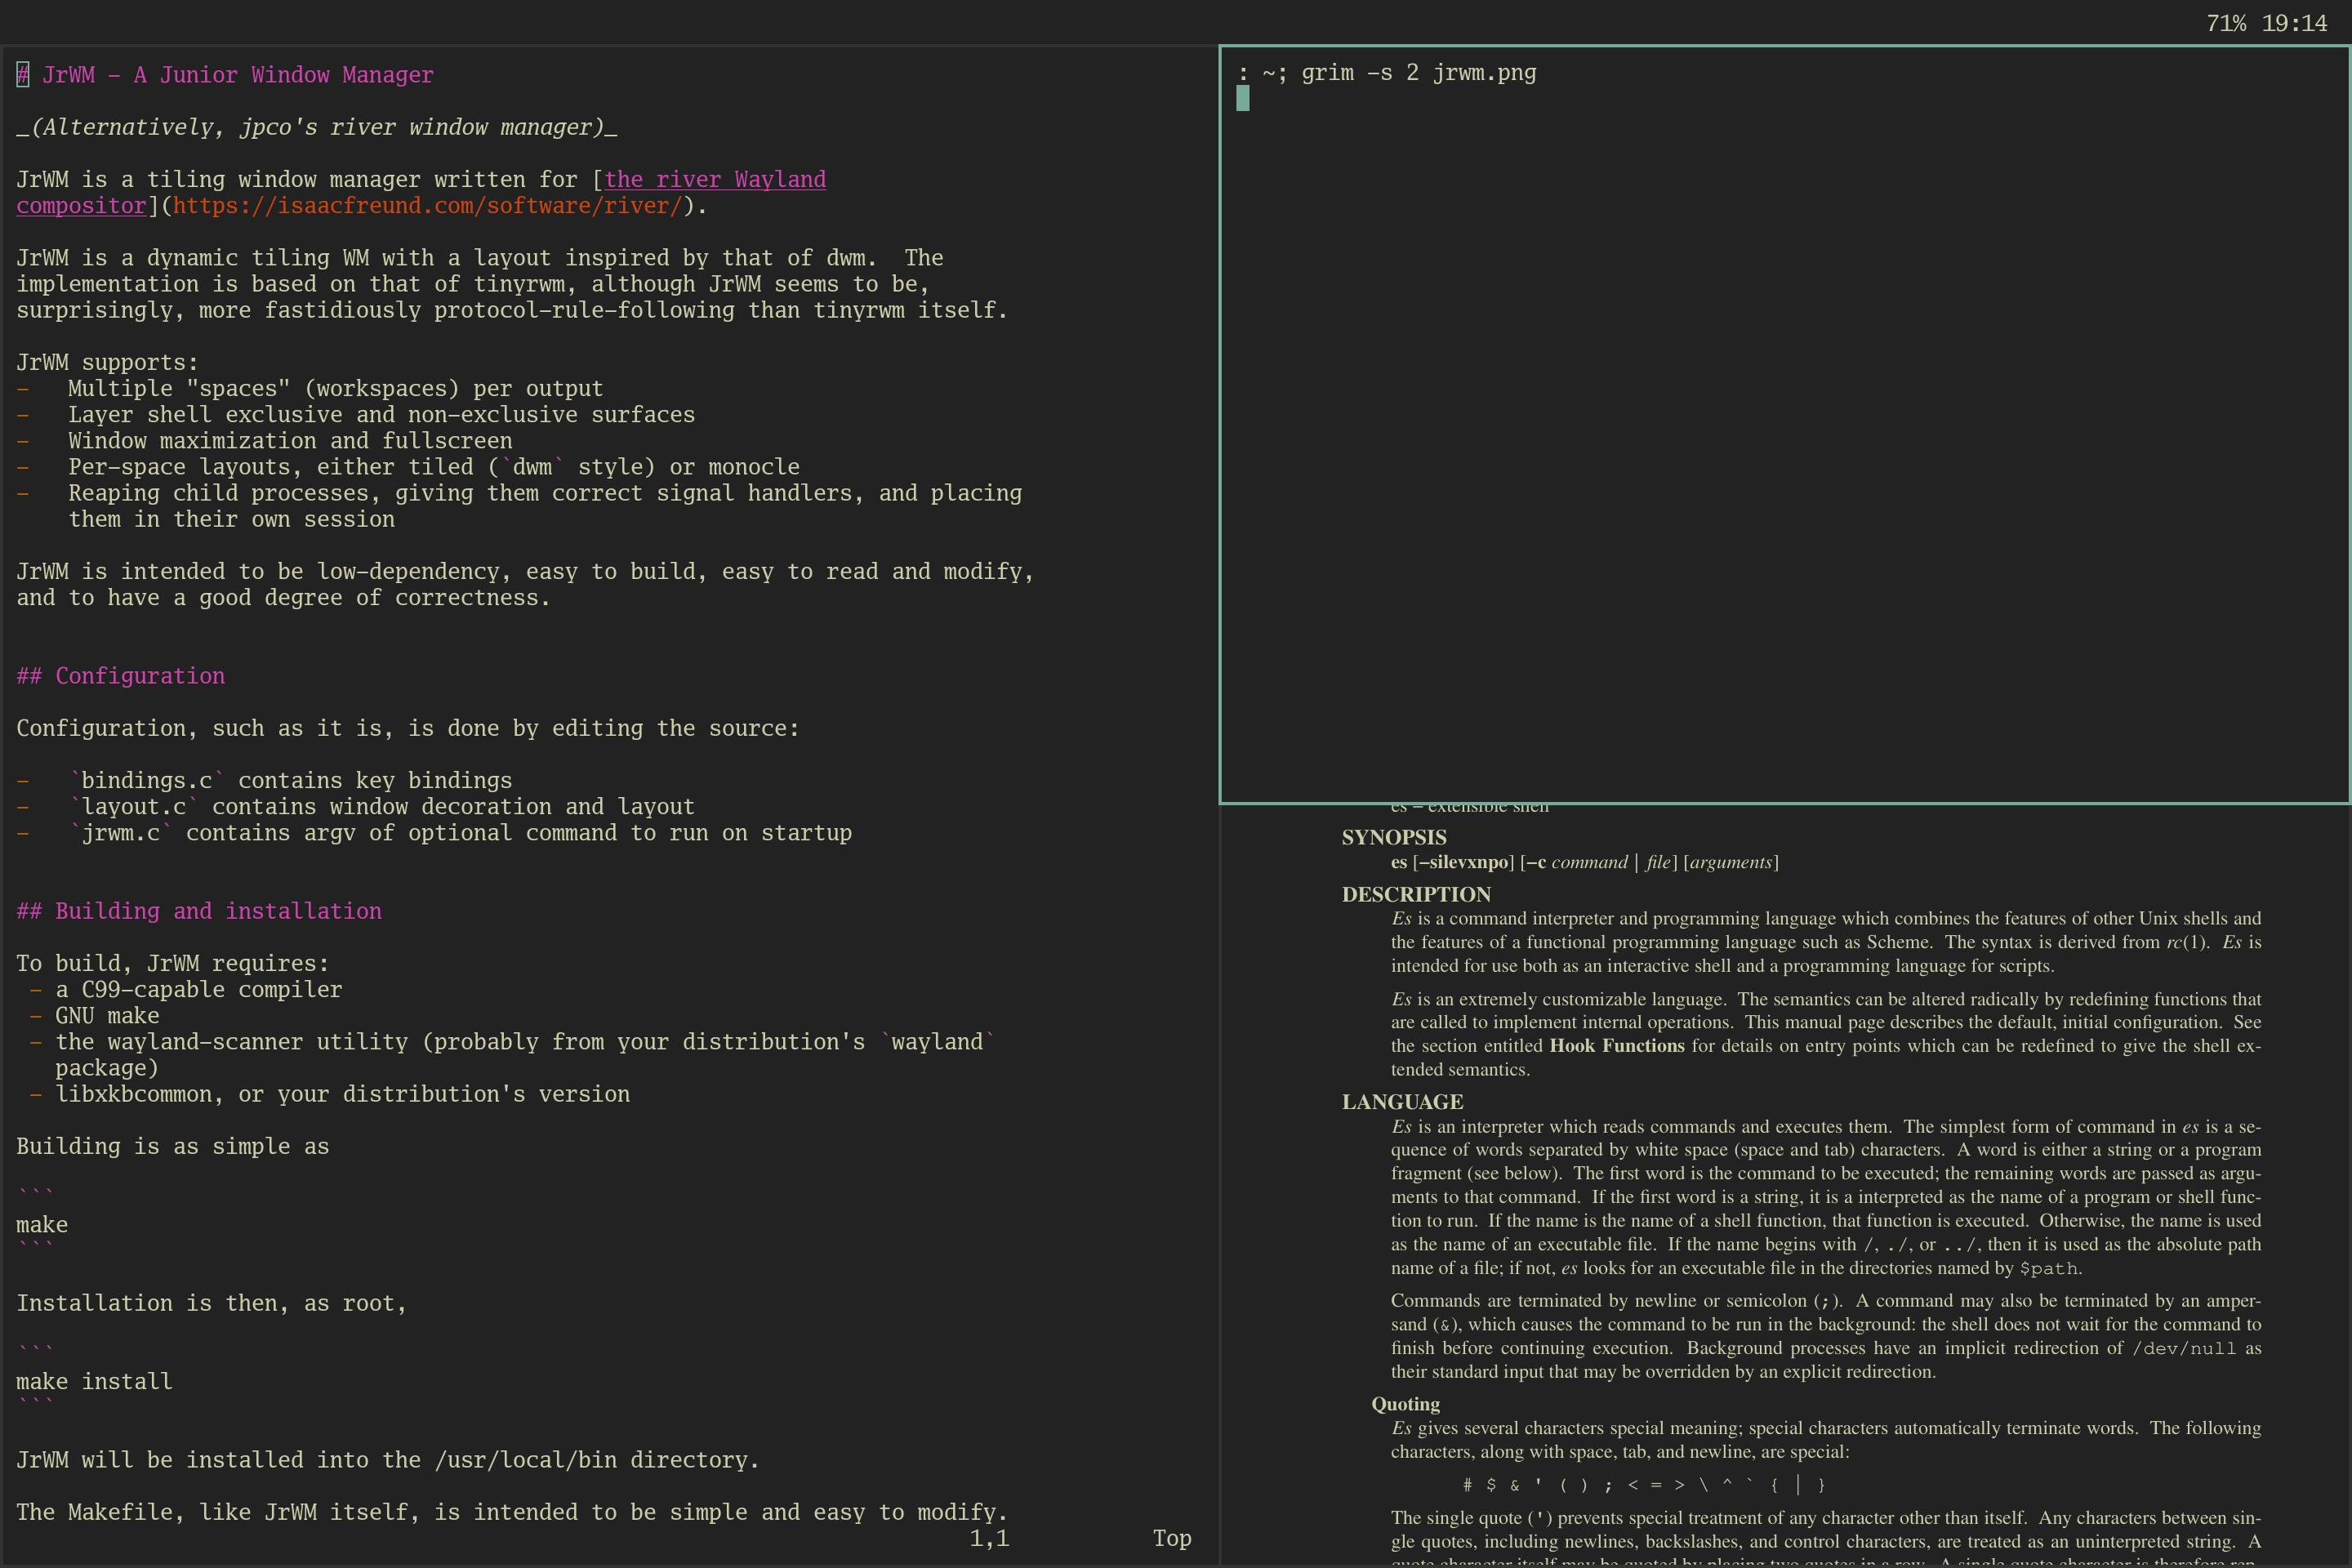
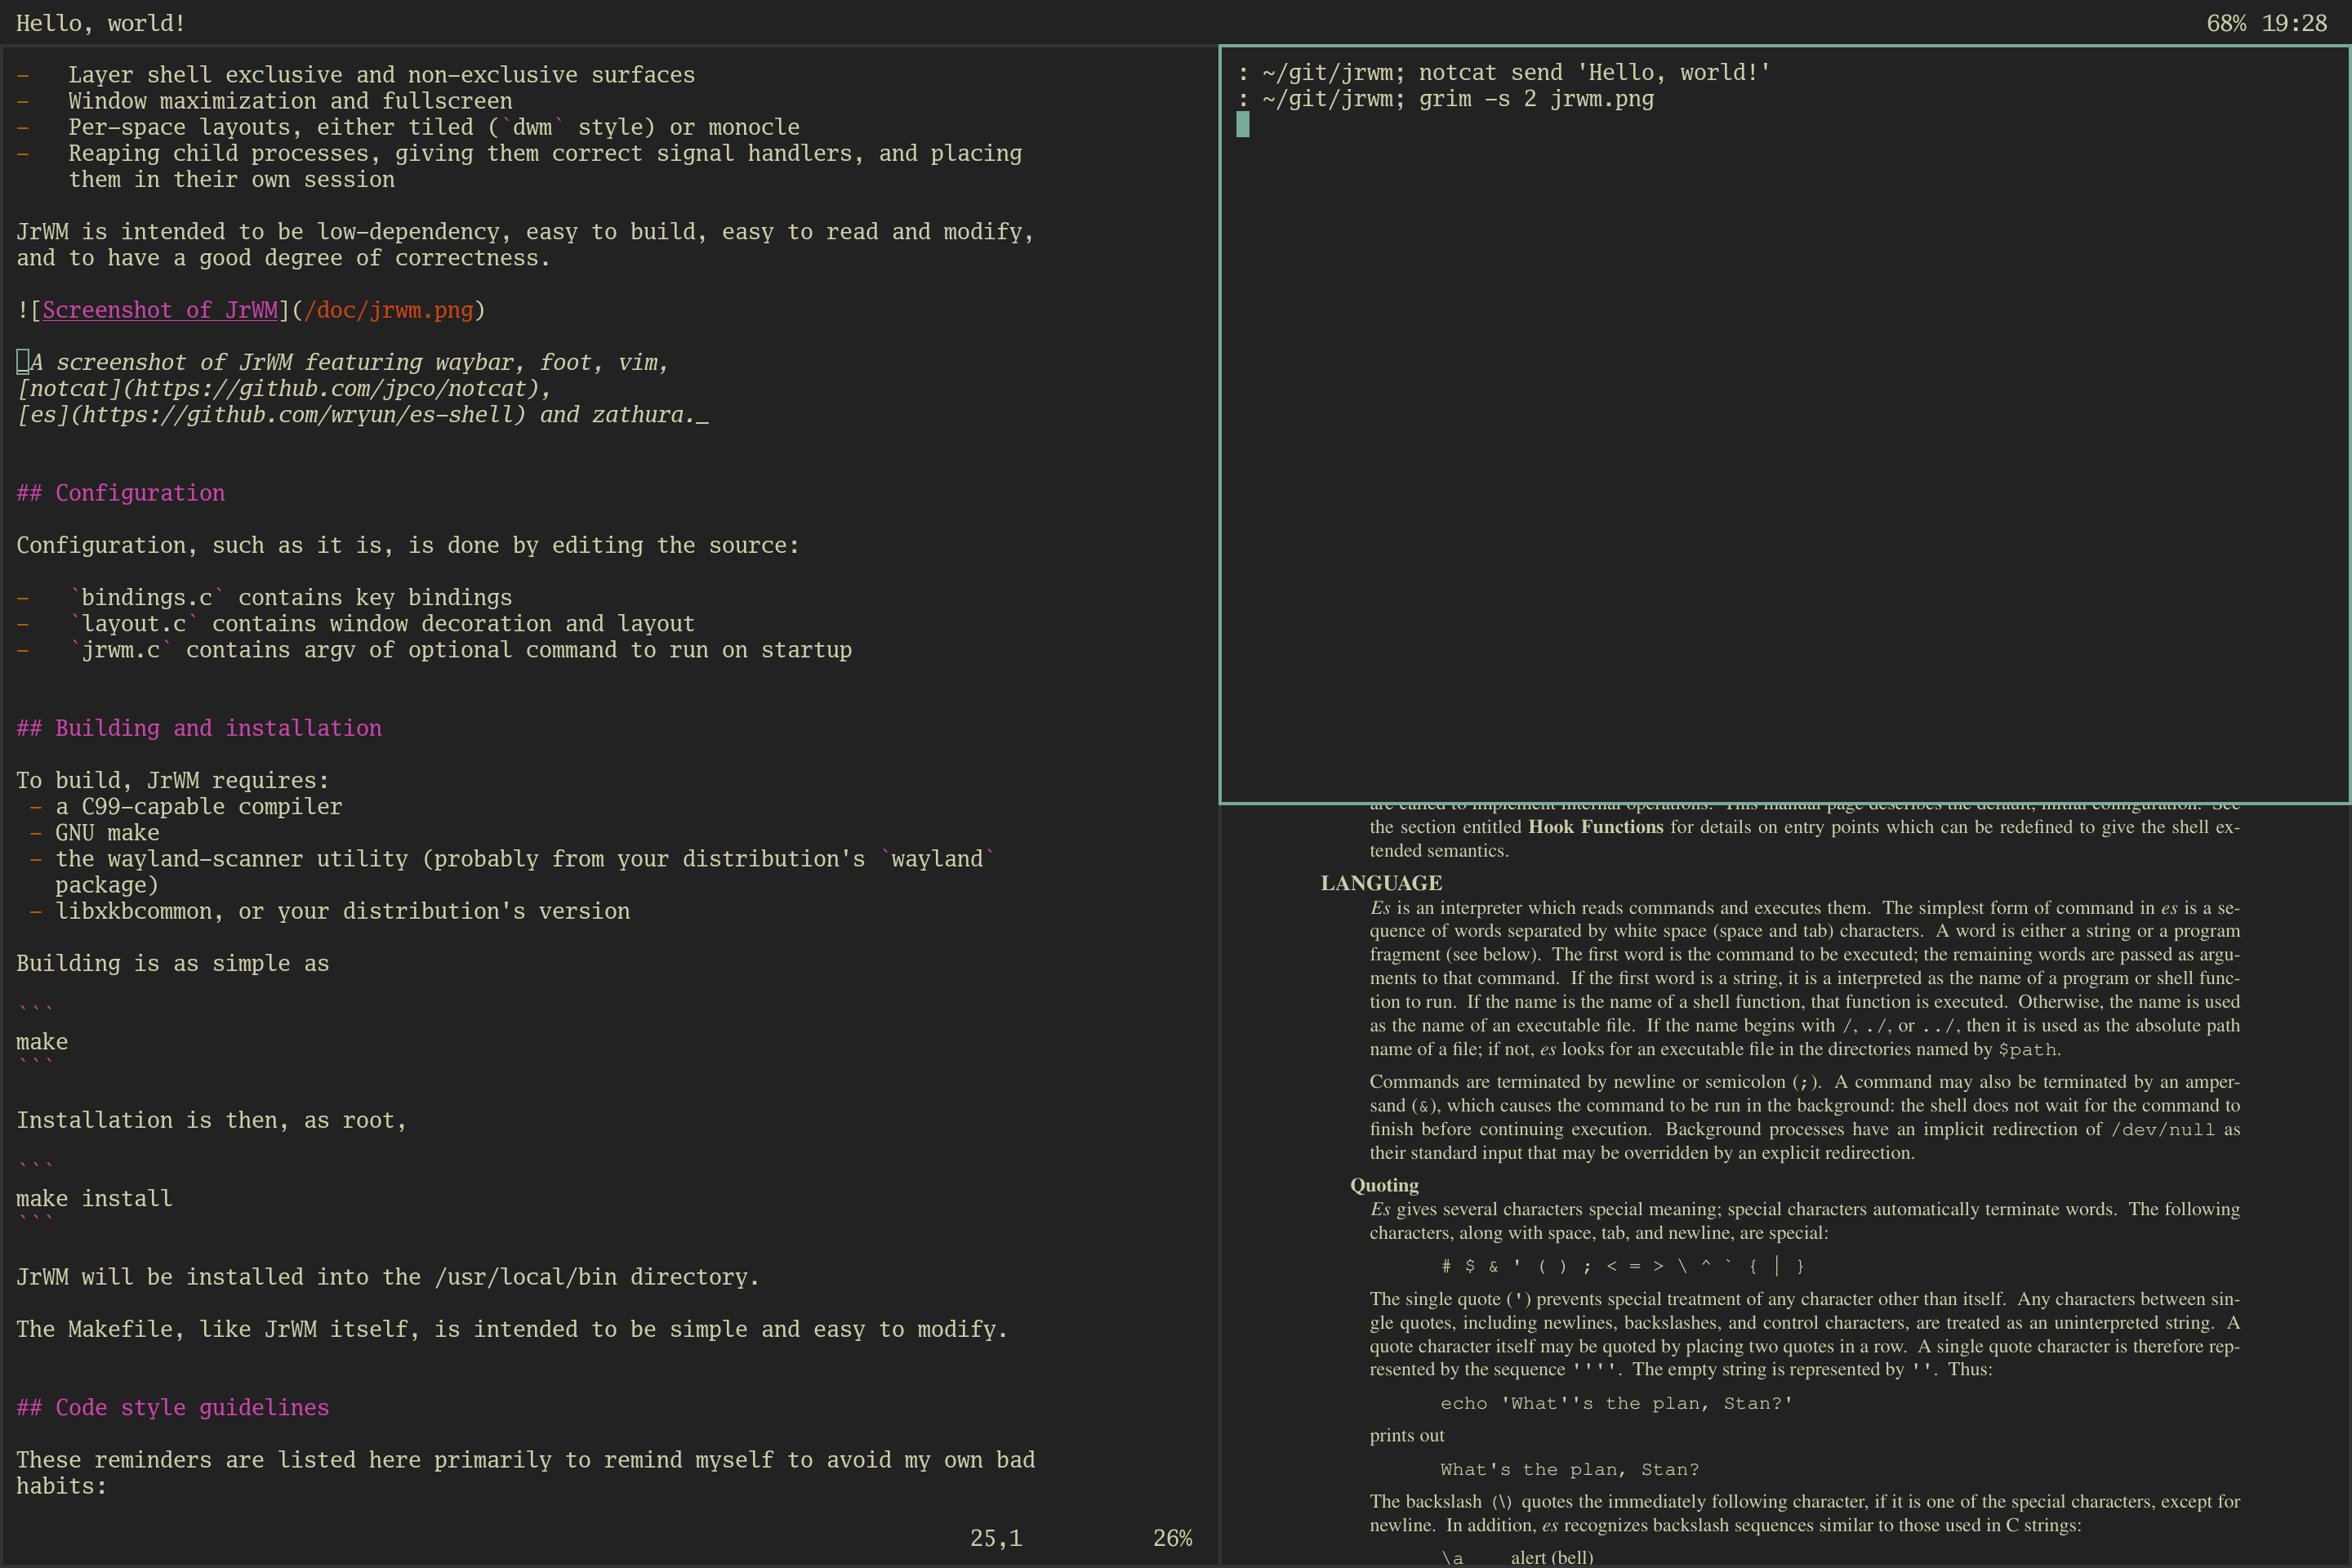
Update screenshot to be slightly less boring

diff --git a/README.md b/README.md
@@ -22,7 +22,8 @@ and to have a good degree of correctness.
 
 ![Screenshot of JrWM](/doc/jrwm.png)
 
-_A screenshot of JrWM featuring waybar, foot,
+_A screenshot of JrWM featuring waybar, foot, vim,
+[notcat](https://github.com/jpco/notcat),
 [es](https://github.com/wryun/es-shell) and zathura._
 
 